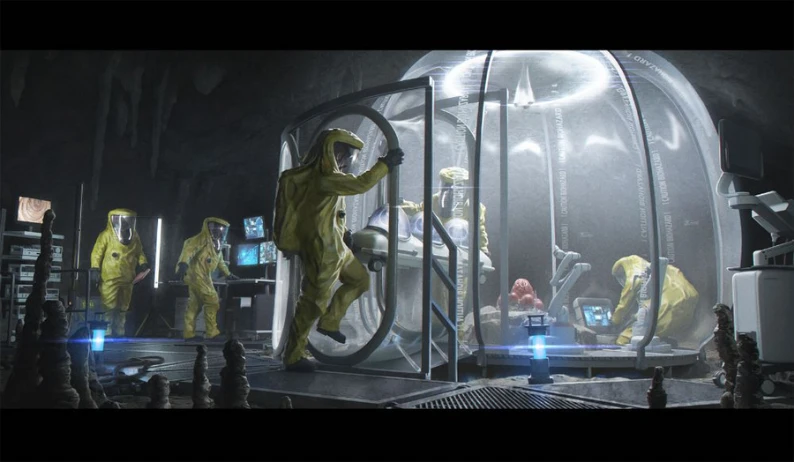
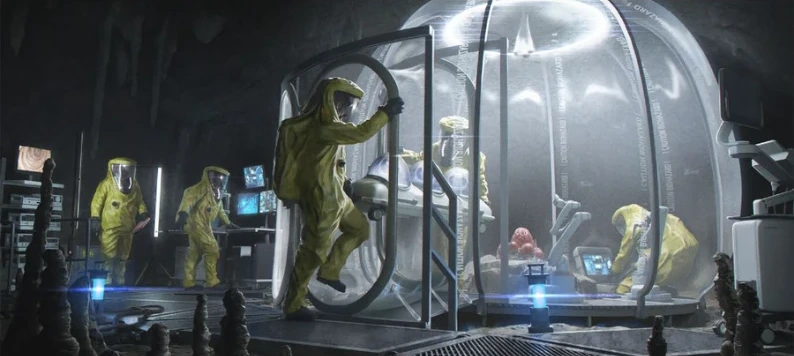
fix(launcher): wrap slice titles, unclip abort button, trim letterbox from station 4 art
Claude-Session: https://claude.ai/code/session_015xfj2h1PuMDvnCrngaZJgV

diff --git a/src/launcher/launcher.css b/src/launcher/launcher.css
@@ -63,8 +63,8 @@
 }
 .arc-sector { font: 400 11px 'JetBrains Mono', monospace; letter-spacing: .12em; color: var(--c1); opacity: .9; }
 .arc-slice__name {
-  margin: 0; font-weight: 700; font-size: clamp(22px, 2.6vw, 44px); line-height: 1; letter-spacing: .04em;
-  text-transform: uppercase; text-shadow: 0 0 22px color-mix(in srgb, var(--c1) 60%, transparent); white-space: nowrap; overflow: hidden;
+  margin: 0; font-weight: 700; font-size: clamp(20px, 2.1vw, 38px); line-height: 1; letter-spacing: .04em;
+  text-transform: uppercase; text-shadow: 0 0 22px color-mix(in srgb, var(--c1) 60%, transparent); overflow-wrap: anywhere;
 }
 
 .arc-slice__intel {
@@ -115,7 +115,7 @@
 .arc-field input:focus { outline: none; border-color: var(--c1); box-shadow: 0 0 14px color-mix(in srgb, var(--c1) 50%, transparent); }
 .arc-btn--engage { background: var(--c1); color: #05070a; }
 .arc-btn--engage:disabled { background: #1e293b; color: #64748b; cursor: not-allowed; }
-.arc-btn--abort { background: transparent; color: #94a3b8; box-shadow: inset 0 0 0 1px #475569; }
+.arc-btn--abort { background: transparent; color: #94a3b8; border: 1px solid #475569; clip-path: none; }
 .arc-btn--abort:hover { color: #fff; }
 
 .arc-board, .arc-placeholder { min-height: 100vh; padding: 32px; background: #05070a; box-sizing: border-box; }
